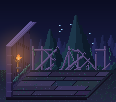
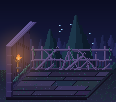
Balcony forest: no gaps in fence (continuous rails, stubs kept, picket fill)
Claude-Session: https://claude.ai/code/session_01FPZSaKiVNU2zED737yZX4w

diff --git a/tools/render_balcony_forest.py b/tools/render_balcony_forest.py
@@ -49,8 +49,8 @@ def main():
     bx0, bx1 = int(X0 + SK * D), int(X0 + SK * D + W)
     posts = [x for x in range(bx0 + 2, bx1, 9)]
     for i, x in enumerate(posts):
-        if i in (3, 6): continue                                        # 빠진 기둥
         h = RAIL if i not in (2, 5, 7) else RAIL - rng.randrange(7, 14)    # 부러진 기둥은 짧음
+        if i in (3, 6): h = 12                                            # 기둥이 부러져도 밑동은 남아 빈틈이 없다
         for y in range(int(by - h), int(by)):
             for k in range(2): put(x + k, y, WOODL if k == 0 else WOOD)
         if h < RAIL:
@@ -60,6 +60,13 @@ def main():
         for x in range(xa, xb + 2):
             y = int(by - RAIL + 3 + (x - xa) * (1 if a == 4 else 0) // 6)
             put(x, y, WOODL); put(x, y + 1, WOOD)
+    # 빈틈 없음: 기둥 사이를 가로대가 끊김 없이 이어 막는다(처지거나 갈라질 뿐, 사람이 지나갈 틈은 없다)
+    for xx in range(bx0 + 1, bx1 + 2):
+        sag = int(2.5 * abs(((xx - bx0) % 36) / 36 - .5))                     # 구간마다 살짝 처짐
+        for yy, c in ((int(by - 4), WOOD), (int(by - 3), WOODD), (int(by - 13) + sag, WOODL), (int(by - 12) + sag, WOOD), (int(by - RAIL + 3) + sag // 2, WOODL), (int(by - RAIL + 4) + sag // 2, WOOD)):
+            put(xx, yy, c)
+    for xx in range(bx0 + 2, bx1, 3):                                         # 가로대 사이는 얇은 창살 조각으로 채움
+        for yy in range(int(by - 11), int(by - 5)): put(xx, yy, WOODD)
     # 부서진 울타리 조각(기둥 사이사이): 기울어진 기둥, 한쪽만 걸려 늘어진 가로대, 들쭉날쭉 부러진 그루터기, 쓰러져 기댄 널빤지
     def beam(x0, y0, x1, y1, th=2):                                      # 두께 th 의 나무 막대(밝은 면 + 어두운 면)
         n = int(max(abs(x1 - x0), abs(y1 - y0))) or 1
